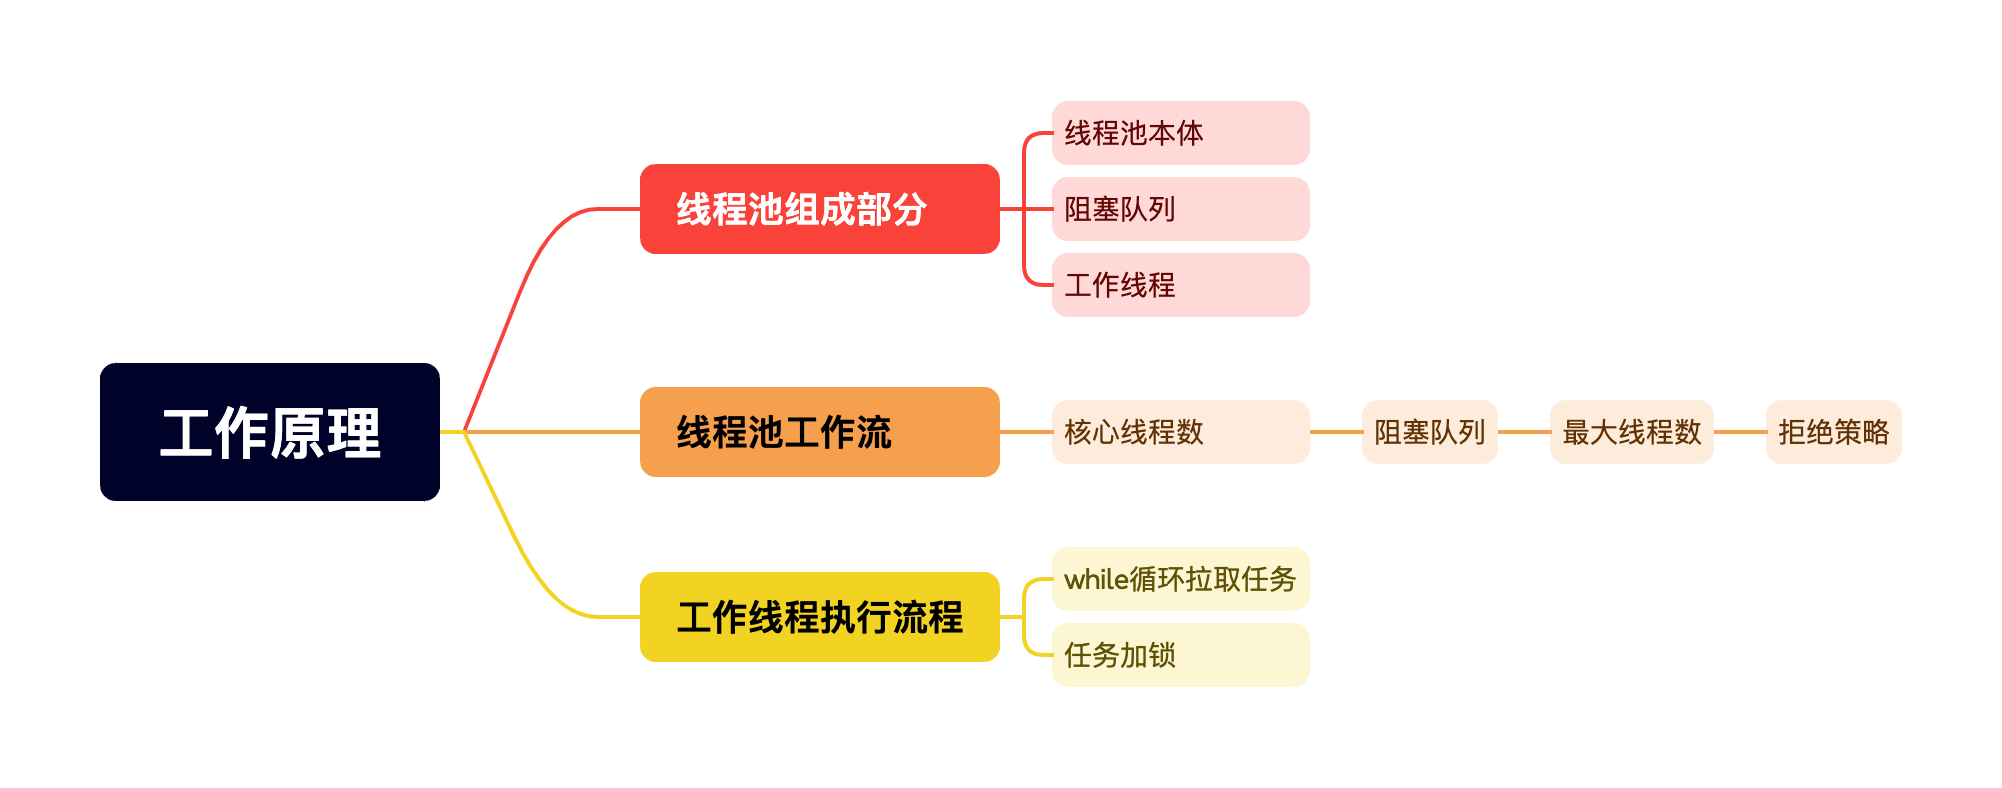
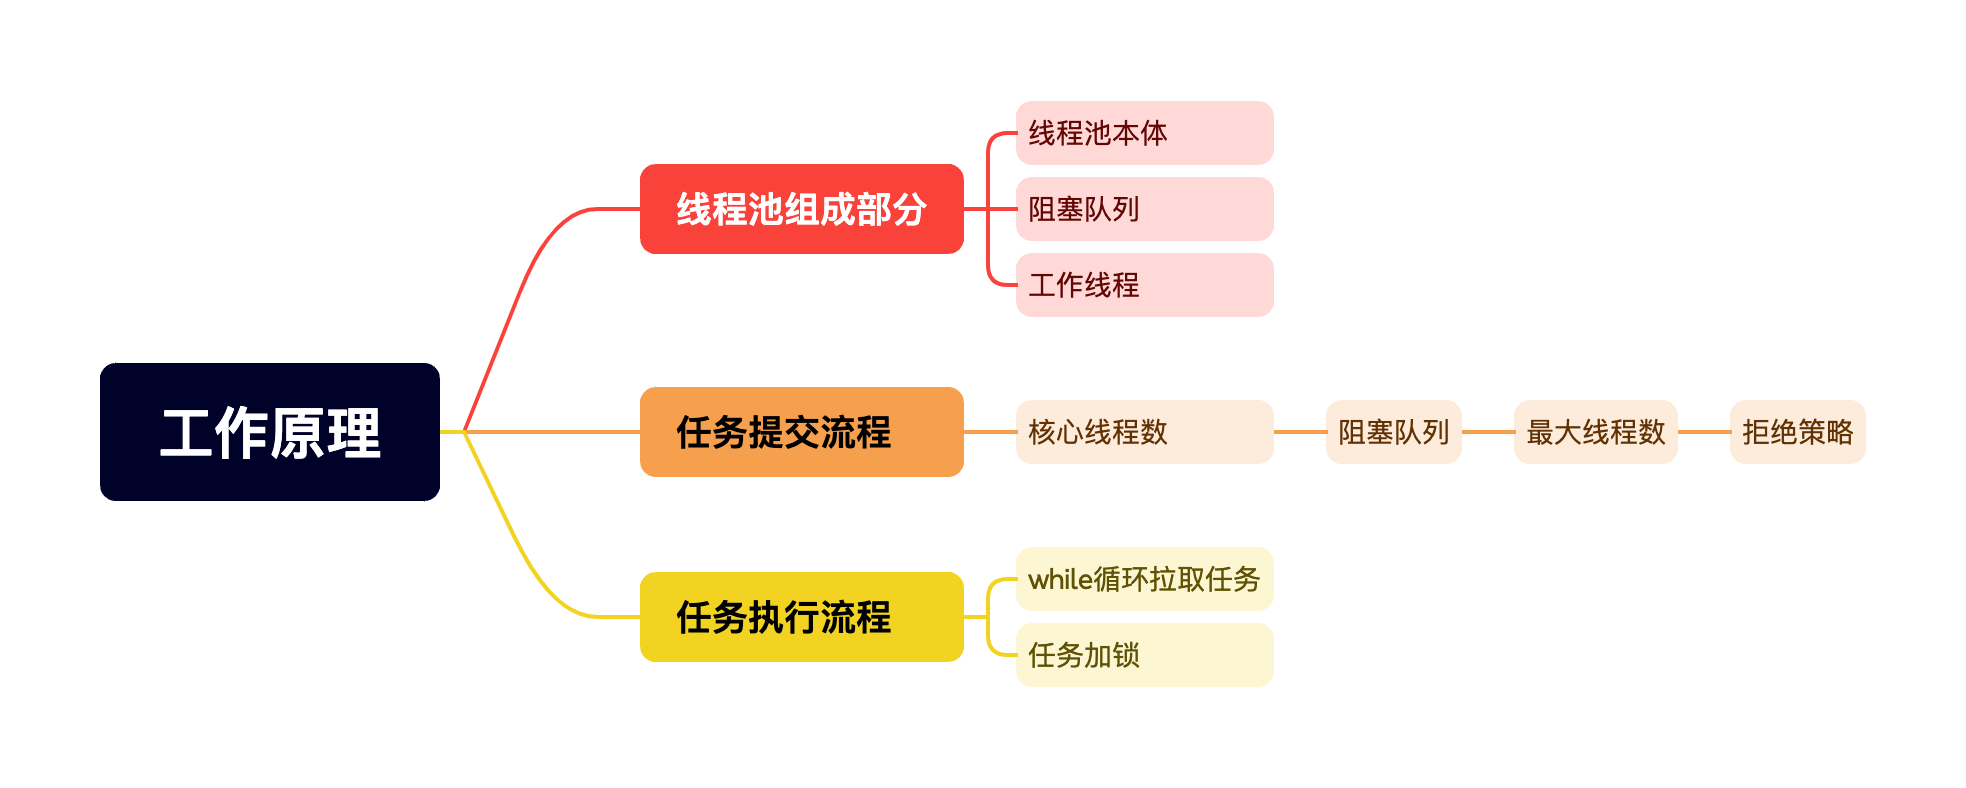
线程池原理部分

diff --git a/JavaNote.md b/JavaNote.md
@@ -3321,13 +3321,13 @@ RabbitMQ 从性能上不及 RocketMQ、Kafka、功能上不及 RocketMQ，国内
 
 #### 1.3线程池工作原理
 
-<img src="imgs/工作原理.png" alt="工作原理" style="zoom: 150%;" />
+<img src="imgs/工作原理.png" alt="工作原理" style="zoom: 50%;" />
 
 - 线程池一般指的是`ThreadPoolExecutor`，基于生产者消费者模型实现的，从功能划分成三个部分
   - 线程池本体：管理工作线程，任务调度
   - 阻塞队列：扮演生产者消费者中间的缓冲区，工作线程从阻塞队列不断拉取并执行任务
   - 工作线程：Thread对象内部都有一个Worker，Worker不断从阻塞队列中拉取并执行任务
-- 线程池工作流
+- 任务提交工作流
   - 如果当前线程数小于核心线程数，则创建一个新的工作线程执行任务
   - 如果当前线程数大于等于核心线程数，且阻塞队列未满，将任务添加到阻塞队列
   - 如果阻塞队列已满，且线程数小于最大线程数，则创建一个新的工作线程执行任务
@@ -3335,18 +3335,21 @@ RabbitMQ 从性能上不及 RocketMQ、Kafka、功能上不及 RocketMQ，国内
 
 <img src="imgs/线程池工作流.png" alt="线程池工作流" style="zoom: 50%;" />
 
-- 工作线程执行流程：当启动一个工作线程，它会在while循环中重复执行一套逻辑
-  - `getTask`从阻塞队列获取任务~~(启动工作线程会自带一个任务)~~，拿不到任务就阻塞一段时间，直到超时或者拿到任务进入下个阶段
+- 任务执行工作流：当启动一个工作线程，它会在while循环中重复执行一套逻辑
+  - `getTask`从阻塞队列获取任务~~(启动工作线程会自带一个任务)~~，拿不到任务就阻塞一段时间，直到拿到任务进入下个阶段或者超时进入线程退出流程
   - 通过`Woker`的`lock`加锁，确保一个线程只执行一个任务
   - 执行任务
   - 解锁
+  - 线程因为异常中断，则进入线程退出流程，否则进入循环
+  - <font color='red'>只有当worker获取任务超时或者执行任务出现异常，才会进入线程退出流程去销毁线程</font>
 
 <img src="imgs/工作线程执行流程.png" alt="工作线程执行流程" style="zoom:50%;" />
 
 <details>
   <summary><font color='red'><strong>详细原理介绍</strong></color></summary>
   <pre><font color='black'><strong>1.工作线程 Worker</strong>
-  <code>ThreadPoolexecutor</code>中，每个工作线程都对应一个内部类<code>Worker</code>，都被存放在一个<code>HashSet</code>中
+  <font color='red'>每个工作线程都对应一个内部类<code>Worker</code>，一个工作线程就是一个<code>Worker</code>(工作者)</font>
+  <code>ThreadPoolexecutor</code>中，通过一个全局变量<code>HashSet</code>存储和管理<code>worker</code>
   <code>Worker</code>实现了<code>Runnable</code>接口，创建一个<code>Worker</code>实例时，在构造函数中线程工厂创建的<code>Thread</code>对象，将<code>Worker</code>与<code>Thread</code>绑定
   <code>Worker</code>继承了<code>AQS</code>来保证工作线程是线程安全的
   </font></pre>
@@ -3362,14 +3365,42 @@ RabbitMQ 从性能上不及 RocketMQ、Kafka、功能上不及 RocketMQ，国内
   </font></pre>
   <pre><font color='black'><Strong>3.任务执行</Strong>
   线程池通过<code>addWorker</code>方法启动一个新线程，创建一个<code>Worker</code>对象,构造函数将<code>Worker</code>与线程绑定，调用线程池的<code>runWorker</code>方法，通过while循环去获取任务
+	● 通过<code>getTask</code>方法从工作队列中获取任务，如果拿不到就阻塞一段时间，直到获取到任务进入下一个阶段或者<strong>超时</strong>进入线程退出流程
+	● 调用<code>Worker</code>的<code>lock</code>方法加锁，确保一个线程只被一个任务占用
+	● 调用<code>beforeExecute</code>回调方法，然后执行任务
+	● 调用<code>afterExecute</code>回调方法，这两个方法都是空的，需要自定义
+	● 如果线程因为<strong>异常中断</strong>，则进入线程退出流程，否则回到步骤1
+	● <font color='red'>只有当worker获取任务超时或者执行任务出现异常，才会进入线程退出流程去销毁线程</font>
+	● 同样的，<font color='red'><code>getTask</code>获取任务超时，说明当前线程数大于核心线程数，或者设置了核心线程超时销毁</font>
   </font></pre>
 </details>
 
 
-
 #### 1.4项目宕机时线程池任务没处理完
 
+<img src="imgs/线程池关闭任务不丢失.png" alt="线程池关闭任务不丢失" style="zoom:33%;" />
+
+- 优雅停机方案
+  - 如果线程池中任务数量不多，可以实现`Spring`的`DisposableBean`接口，改写`destroy`方法，在容器关闭时调用线程池的`shutdown`方法和`awaitTermination`方法
+  - `shudown`保证线程池有序关闭，继续执行已提交的任务，但不保证所有任务完成
+  - `awaitTermination`设置了一个等待时间，让所有提交的任务完成
+  - 如果任务数过多，还是会丢失任务
+- 消息队列方案
+  - 如果线程池中任务很多，可以借助消息队列保证数据不丢失
+  - 先将任务投递到消息队列，消费者端从Broker拉取任务进行消费，即使项目重启，任务会在MQ中持久化，配合优雅停机方案，最大程度避免任务丢失
+  - 可以使用synchrnousQueue，阻塞队列不存储任务则不会丢失
+
 #### 1.5线程池execute和submit
+
+<img src="imgs/execute和submit.png" alt="execute和submit" style="zoom: 50%;" />
+
+- `execute`和`submit`都是用来线程池中任务提交的，但有几个不同点
+
+- |              | execute                        | submit                                                       |
+  | ------------ | ------------------------------ | ------------------------------------------------------------ |
+  | **返回值**   | 不需要返回值的任务，没有返回值 | 用于需要返回值的任务，返回值封装在`Future`对象中，`Future.get`获取 |
+  | **异常处理** | 直接抛出异常，传播到调用线程   | 不抛出异常，将异常封装到`Future`对象中返回                   |
+
 
 #### 1.6线程池如何实现线程复用&超时回收
 
@@ -3393,15 +3424,21 @@ RabbitMQ 从性能上不及 RocketMQ、Kafka、功能上不及 RocketMQ，国内
 
 #### 2.2说下阻塞队列实现原理
 
+#### 2.3ArrayBlockingQueue 和 LinkedBlockingQueue 有什么区别？
+
 
 
 ### 3.ReentrantLock 高频考点
 
-#### 3.1ReentrantLock和synchronized有什么区别
+#### 3.1ReentrantLock 底层怎么实现的？
 
 #### 3.2ReentrantLock如何实现可重入
 
-#### 3.3读写锁原理
+#### 3.3公平锁和非公平锁哪个好？
+
+#### 3.4ReentrantLock和synchronized有什么区别
+
+#### 3.5读写锁原理
 
 
 
@@ -3413,7 +3450,9 @@ RabbitMQ 从性能上不及 RocketMQ、Kafka、功能上不及 RocketMQ，国内
 
 #### 4.3CAS的ABA问题
 
-#### 4.4并发场景下如何选择CAS和锁
+#### 4.4如何解决 CAS 空转或者说高并发情况下如何实现内存计数器？
+
+#### 4.5并发场景下如何选择CAS和锁
 
 
 
